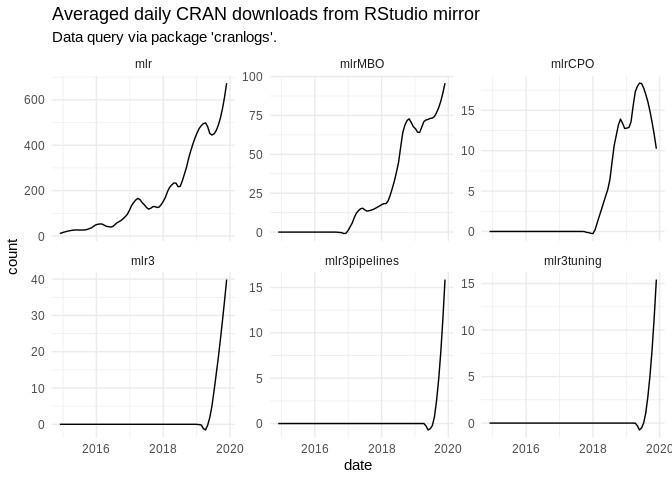
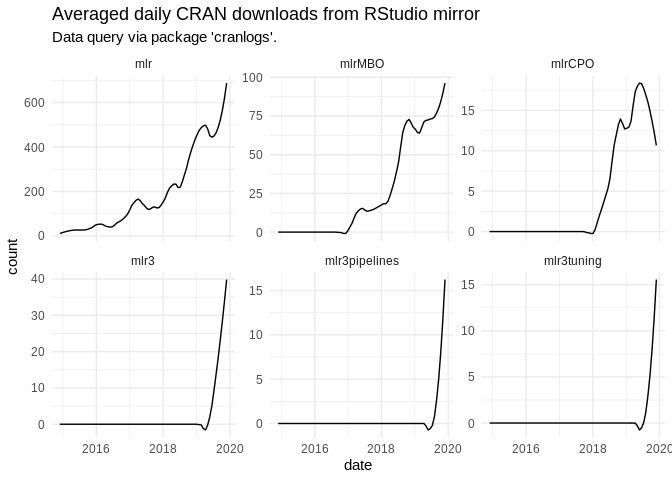
Deploy from Travis build 29 [ci skip]
Build URL: https://travis-ci.org/mlr-org/mlrcranlog/builds/618399641
Commit: 3352c1ddda09e5a7038557e39930a5b9dc64603c

diff --git a/README.md b/README.md
@@ -9,7 +9,7 @@
 
 Created on
 
-    ## [1] "2019-11-27"
+    ## [1] "2019-11-28"
 
 <details>
 
